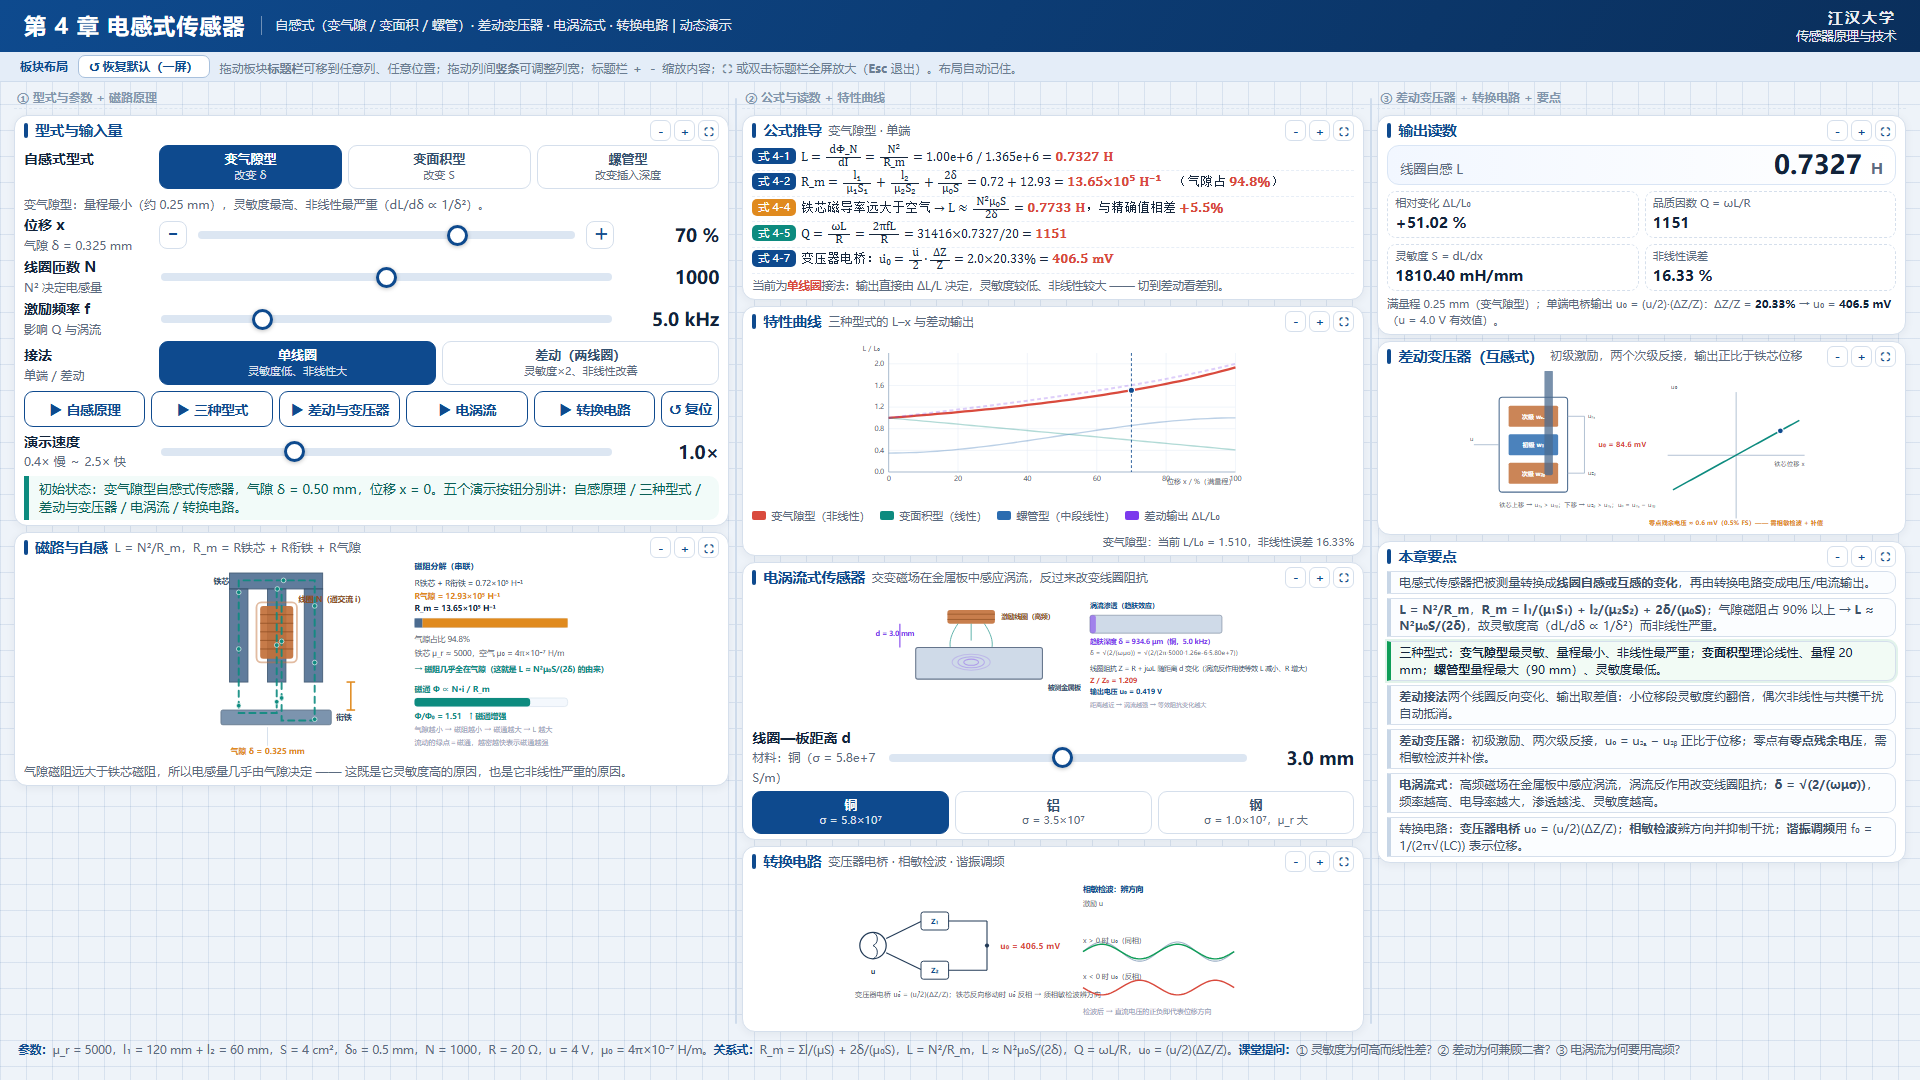
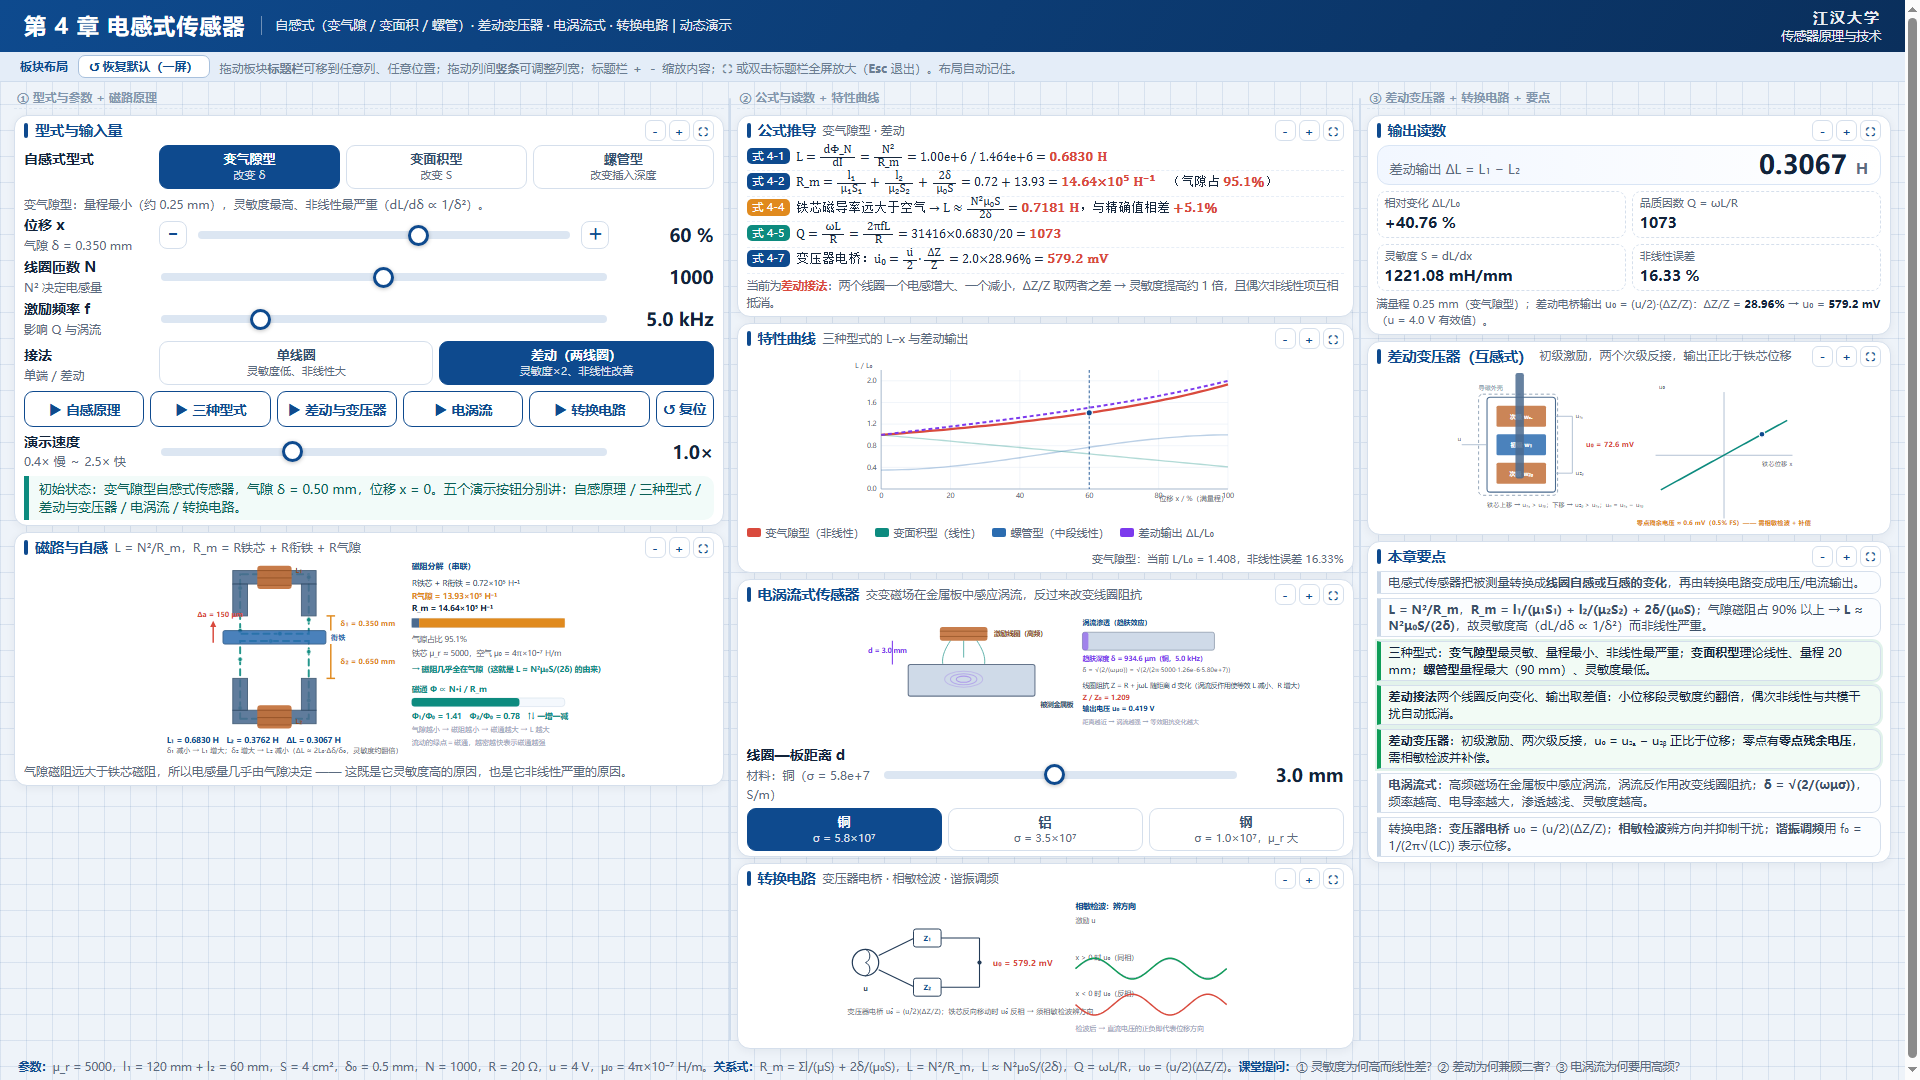
修正差动式结构：按教材图4-8与差动形式幻灯片重画（上下双磁芯+双线圈+中间衔铁，上下气隙反向，两条独立磁通回路，Φ₁/Φ₂ 一增一减）；差动变压器铁芯居中并补导磁外壳

diff --git a/传感器原理及检测技术/第4章-电感式传感器-动态演示.html b/传感器原理及检测技术/第4章-电感式传感器-动态演示.html
@@ -329,7 +329,50 @@
               stroke-linecap="round" opacity=".9" style="display:none"/>
         <path id="loopSol" d="" fill="none" stroke="var(--flux)" stroke-width="3.2" stroke-dasharray="10 8"
               stroke-linecap="round" opacity=".9" style="display:none"/>
+        <path id="loopD1" d="" fill="none" stroke="var(--flux)" stroke-width="3.2" stroke-dasharray="10 8"
+              stroke-linecap="round" opacity=".9" style="display:none"/>
+        <path id="loopD2" d="" fill="none" stroke="var(--flux)" stroke-width="3.2" stroke-dasharray="10 8"
+              stroke-linecap="round" opacity=".9" style="display:none"/>
         <g id="fluxDots"></g>
+        <!-- 差动式：两个线圈分绕上/下磁芯，衔铁在中间，上下气隙一增一减 -->
+        <g id="stDiff" style="display:none">
+          <!-- 上磁芯（上轭 + 两条腿） -->
+          <rect x="128" y="14" width="136" height="22" fill="var(--iron)" opacity=".88" stroke="#2f4b68" stroke-width="1.5"/>
+          <rect x="128" y="36" width="24" height="52" fill="var(--iron)" opacity=".88" stroke="#2f4b68" stroke-width="1.5"/>
+          <rect x="240" y="36" width="24" height="52" fill="var(--iron)" opacity=".88" stroke="#2f4b68" stroke-width="1.5"/>
+          <!-- 下磁芯 -->
+          <rect x="128" y="242" width="136" height="22" fill="var(--iron)" opacity=".88" stroke="#2f4b68" stroke-width="1.5"/>
+          <rect x="128" y="190" width="24" height="52" fill="var(--iron)" opacity=".88" stroke="#2f4b68" stroke-width="1.5"/>
+          <rect x="240" y="190" width="24" height="52" fill="var(--iron)" opacity=".88" stroke="#2f4b68" stroke-width="1.5"/>
+          <!-- 线圈 L₁（绕上轭）／L₂（绕下轭） -->
+          <g id="coilD1"><rect x="168" y="6" width="56" height="38" rx="5" fill="var(--cu)" opacity=".92"/>
+            <line x1="168" y1="14" x2="224" y2="14" stroke="#8c4d22" stroke-width="1.2"/>
+            <line x1="168" y1="26" x2="224" y2="26" stroke="#8c4d22" stroke-width="1.2"/>
+            <line x1="168" y1="38" x2="224" y2="38" stroke="#8c4d22" stroke-width="1.2"/></g>
+          <g id="coilD2"><rect x="168" y="234" width="56" height="38" rx="5" fill="var(--cu)" opacity=".92"/>
+            <line x1="168" y1="242" x2="224" y2="242" stroke="#8c4d22" stroke-width="1.2"/>
+            <line x1="168" y1="254" x2="224" y2="254" stroke="#8c4d22" stroke-width="1.2"/>
+            <line x1="168" y1="266" x2="224" y2="266" stroke="#8c4d22" stroke-width="1.2"/></g>
+          <text x="230" y="18" font-size="12" font-weight="700" fill="#8c4d22">L₁</text>
+          <text x="230" y="264" font-size="12" font-weight="700" fill="#8c4d22">L₂</text>
+          <!-- 衔铁（中间，随被测位移上下移动） -->
+          <rect id="armDiff" x="112" y="128" width="168" height="22" rx="3" fill="#2b6cb0" opacity=".85" stroke="#1b4a7a" stroke-width="1.5"/>
+          <text id="armDiffTxt" x="288" y="144" font-size="12" font-weight="700" fill="#2b6cb0">衔铁</text>
+          <!-- 上下气隙尺寸 -->
+          <line id="d1Dim" x1="288" y1="88" x2="288" y2="128" stroke="var(--gapm)" stroke-width="2.4"/>
+          <line id="d1Tick" x1="281" y1="88" x2="295" y2="88" stroke="var(--gapm)" stroke-width="2.4"/>
+          <text id="d1Txt" x="304" y="112" font-size="12" font-weight="700" fill="var(--gapm)">δ₁</text>
+          <line id="d2Dim" x1="288" y1="150" x2="288" y2="190" stroke="var(--gapm)" stroke-width="2.4"/>
+          <line id="d2Tick" x1="281" y1="190" x2="295" y2="190" stroke="var(--gapm)" stroke-width="2.4"/>
+          <text id="d2Txt" x="304" y="176" font-size="12" font-weight="700" fill="var(--gapm)">δ₂</text>
+          <!-- 位移 Δa -->
+          <line id="dMove" x1="96" y1="150" x2="96" y2="120" stroke="#d94a3d" stroke-width="2.4"/>
+          <polygon id="dMoveH" points="96,116 91,126 101,126" fill="#d94a3d"/>
+          <text id="dMoveTxt" x="70" y="112" font-size="11.5" font-weight="700" fill="#d94a3d">Δa</text>
+          <!-- 输出 -->
+          <text id="dOutTxt" x="20" y="296" font-size="12.5" font-weight="700" fill="#0e4a8e">ΔL = L₁ − L₂ = 0.0000 H</text>
+          <text id="dOutSub" x="20" y="312" font-size="11.5" fill="#5b6b80">一个气隙减小、另一个增大 → 两线圈电感反向变化</text>
+        </g>
         <!-- 右侧：磁阻分解 + 磁通量 -->
         <g transform="translate(420,12)">
           <text x="0" y="0" font-size="13" font-weight="700" fill="#0e4a8e">磁阻分解（串联）</text>
@@ -494,8 +537,10 @@
           <text x="125" y="125" text-anchor="middle" font-size="11.5" font-weight="700" fill="#fff">初级 w₁</text>
           <rect x="78" y="154" width="94" height="40" rx="3" fill="var(--cu)" opacity=".85"/>
           <text x="125" y="179" text-anchor="middle" font-size="11.5" font-weight="700" fill="#fff">次级 w₂ᵦ</text>
-          <rect id="coreRod" x="146" y="20" width="16" height="200" rx="4" fill="var(--iron)" opacity=".75"/>
-          <text id="coreTxt" x="154" y="14" text-anchor="middle" font-size="12" font-weight="700" fill="#2f4b68">铁芯</text>
+          <rect x="44" y="24" width="150" height="192" rx="8" fill="none" stroke="#8296ad" stroke-width="1.6" stroke-dasharray="6 5"/>
+          <text x="44" y="16" font-size="11.5" fill="#8296ad">导磁外壳</text>
+          <rect id="coreRod" x="114" y="20" width="16" height="200" rx="4" fill="var(--iron)" opacity=".85"/>
+          <text id="coreTxt" x="122" y="14" text-anchor="middle" font-size="11.5" font-weight="700" fill="#2f4b68">铁芯</text>
           <line x1="12" y1="120" x2="60" y2="120" stroke="#9fb2c8" stroke-width="1.5"/>
           <text x="4" y="112" font-size="11.5" fill="#5b6b80">u</text>
           <line x1="190" y1="66" x2="222" y2="66" stroke="#9fb2c8" stroke-width="1.5"/>
@@ -659,7 +704,7 @@
   }
 
   /* ============ 2b. 磁通流动动画 ============ */
-  var FLUX = { L:0, t:0, target:1, els:null, path:null };
+  var FLUX = { L:0, t:0, target:1, els:null, path:null, paths:[] };
   /* 闭合磁通回路：中腿下行 → 穿气隙 → 衔铁 → 外腿 → 上轭 → 回中腿 */
   function gapLoop(yArm){
     var y1 = 196, yA = yArm + 5, yB = yArm + 17;
@@ -685,22 +730,48 @@
     var yArm = parseFloat($('armGap').getAttribute('y')) || 204;
     var yTop = parseFloat($('plunger').getAttribute('y')) || 70;
     var depth = parseFloat($('plunger').getAttribute('height')) || 120;
-    $('loopGap').style.display  = (S.type === 'gap') ? '' : 'none';
-    $('loopArea').style.display = (S.type === 'area') ? '' : 'none';
-    $('loopSol').style.display  = (S.type === 'solenoid') ? '' : 'none';
-    var p = activeLoopEl();
-    var dxA = 120*0.6*(S.x/100);
-    p.setAttribute('d', S.type === 'solenoid' ? solLoop(yTop, depth)
-                    : (S.type === 'area' ? areaLoop(dxA, 207) : gapLoop(yArm)));
-    FLUX.path = p;
-    try { FLUX.L = p.getTotalLength(); } catch (e) { FLUX.L = 0; }
+    var isD = (S.diff === 'differ');
+    $('loopGap').style.display  = (!isD && S.type === 'gap') ? '' : 'none';
+    $('loopArea').style.display = (!isD && S.type === 'area') ? '' : 'none';
+    $('loopSol').style.display  = (!isD && S.type === 'solenoid') ? '' : 'none';
+    $('loopD1').style.display = isD ? '' : 'none';
+    $('loopD2').style.display = isD ? '' : 'none';
+    var paths = [];
+    if (isD){
+      /* 差动：两个线圈各自独立回路，各有一个气隙 */
+      var armTop = parseFloat($('armDiff').getAttribute('y')) || 118, armBot = armTop + 22;
+      $('loopD1').setAttribute('d', 'M140 20 V88 L140 ' + (armTop + 5) + ' L252 ' + (armTop + 5) + ' L252 20 Z');
+      $('loopD2').setAttribute('d', 'M140 256 V190 L140 ' + (armBot - 5) + ' L252 ' + (armBot - 5) + ' L252 256 Z');
+      var dP = diffPair(S.type, S.x/100, S.N), L0 = selfL('gap', 0, S.N).L;
+      paths.push({ el:$('loopD1'), L:0, f:dP.up.L/L0 });
+      paths.push({ el:$('loopD2'), L:0, f:dP.down.L/L0 });
+    } else {
+      var dxA = 120*0.6*(S.x/100);
+      var el = S.type === 'solenoid' ? $('loopSol') : (S.type === 'area' ? $('loopArea') : $('loopGap'));
+      el.setAttribute('d', S.type === 'solenoid' ? solLoop(yTop, depth)
+                      : (S.type === 'area' ? areaLoop(dxA, 207) : gapLoop(yArm)));
+      paths.push({ el:el, L:0, f:fluxRatio() });
+    }
+    paths.forEach(function(o){ try { o.L = o.el.getTotalLength(); } catch (e) { o.L = 0; } });
+    FLUX.paths = paths;
   }
   /* 相对磁通：Φ ∝ N·i/R_m，且 L = N²/R_m ⇒ Φ/Φ₀ = L/L₀ */
+  function dP_dummyFix(L, L0){ return L0 > 0 ? L/L0 : 1; }
   function fluxRatio(){
     var L = selfL(S.type, S.x/100, S.N).L, L0 = selfL(S.type, 0, S.N).L;
     return L0 > 0 ? L/L0 : 1;
   }
   function paintFluxGauge(){
+    if (S.diff === 'differ'){
+      /* 差动：两个线圈各有自己的气隙与磁通，分别显示 */
+      var L0d = selfL('gap', 0, S.N).L, dPd = diffPair(S.type, S.x/100, S.N);
+      var f1 = dP_dummyFix(dPd.up.L, L0d), f2 = dP_dummyFix(dPd.down.L, L0d);
+      FLUX.target = f1;
+      $('fluxBar').setAttribute('width', Math.max(6, Math.min(250, f1/2*250)).toFixed(1));
+      $('fluxTxt').textContent = 'Φ₁/Φ₀ = ' + f1.toFixed(2) + '　Φ₂/Φ₀ = ' + f2.toFixed(2) +
+                                 '　' + (f1 > 1.02 ? '↑↓ 一增一减' : '（相等）');
+      return;
+    }
     var f = fluxRatio();
     FLUX.target = f;
     var w = Math.max(6, Math.min(250, f/2*250));
@@ -714,39 +785,50 @@
     }
     g.innerHTML = html;
     FLUX.els = g.querySelectorAll('circle');
-    /* 先摆好初始位置，避免首帧之前粒子挤在原点 */
     setFluxPath();
-    if (FLUX.path && FLUX.L > 0 && FLUX.path.getPointAtLength){
-      for (i = 0; i < FLUX.els.length; i++){
-        var pt0 = FLUX.path.getPointAtLength(i/FLUX.els.length*FLUX.L);
-        FLUX.els[i].setAttribute('cx', pt0.x.toFixed(1));
-        FLUX.els[i].setAttribute('cy', pt0.y.toFixed(1));
-      }
-    }
-  }
-  function runFlux(){
-    var last = performance.now();
-    (function loop(now){
-      var dt = Math.min(60, now - last); last = now;
-      var f = Math.max(0.15, Math.min(2.2, FLUX.target || 1));
-      var speed = 0.30 + 0.55*f;                       /* 磁通越大，流动越快 */
-      FLUX.t = (FLUX.t + dt*speed/1500) % 1;
-      if (FLUX.path){
-        FLUX.path.setAttribute('stroke-dashoffset', (-FLUX.t*FLUX.L*2).toFixed(1));
-        if (FLUX.els && FLUX.L > 0 && FLUX.path.getPointAtLength){
-          var n = FLUX.els.length, i, pt;
-          for (i = 0; i < n; i++){
-            pt = FLUX.path.getPointAtLength((((FLUX.t*1 + i/n) % 1) + 1) % 1 * FLUX.L);
-            FLUX.els[i].setAttribute('cx', pt.x.toFixed(1));
-            FLUX.els[i].setAttribute('cy', pt.y.toFixed(1));
-            FLUX.els[i].setAttribute('opacity', (0.55 + 0.4*Math.min(1, f/1.4)).toFixed(2));
-          }
+    var nDots = FLUX.els.length;
+    (FLUX.paths || []).forEach(function(o, pi){
+      var per = Math.max(1, Math.floor(nDots/(FLUX.paths.length || 1)));
+      if (o.L > 0 && o.el.getPointAtLength){
+        for (var k = 0; k < per; k++){
+          var idx = pi*per + k;
+          if (idx >= nDots) break;
+          var pt = o.el.getPointAtLength(k/per*o.L);
+          FLUX.els[idx].setAttribute('cx', pt.x.toFixed(1));
+          FLUX.els[idx].setAttribute('cy', pt.y.toFixed(1));
         }
       }
-      /* 线圈激励脉冲：磁通越大越亮 */
-      var p = 0.5 + 0.5*Math.sin(now/420);
-      var c = $('coilPulse');
-      if (c) c.setAttribute('opacity', (0.06 + 0.30*p*Math.min(1.4, f)).toFixed(3));
+    });
+  }
+  function runFlux(){
+    var last = performance.now(), phase = [0, 0];
+    (function loop(now){
+      var dt = Math.min(60, now - last); last = now;
+      var paths = FLUX.paths || [], nDots = FLUX.els ? FLUX.els.length : 0;
+      paths.forEach(function(o, pi){
+        var f = Math.max(0.15, Math.min(2.2, o.f || 1));
+        phase[pi] = (phase[pi] + dt*(0.30 + 0.55*f)/1500) % 1;
+        if (o.L > 0){
+          o.el.setAttribute('stroke-dashoffset', (-phase[pi]*o.L*2).toFixed(1));
+          if (FLUX.els && o.el.getPointAtLength){
+            var per = Math.max(1, Math.floor(nDots/paths.length)), i, idx, pt;
+            for (i = 0; i < per; i++){
+              idx = pi*per + i;
+              if (idx >= nDots) break;
+              pt = o.el.getPointAtLength((((phase[pi] + i/per) % 1) + 1) % 1 * o.L);
+              FLUX.els[idx].setAttribute('cx', pt.x.toFixed(1));
+              FLUX.els[idx].setAttribute('cy', pt.y.toFixed(1));
+              FLUX.els[idx].setAttribute('opacity', (0.5 + 0.45*Math.min(1, f/1.4)).toFixed(2));
+            }
+          }
+        }
+      });
+      /* 线圈激励脉冲（单端结构用；差动时两个线圈各自强弱不同由粒子速度体现） */
+      var c1 = $('coilPulse');
+      if (c1){
+        var f0 = paths.length ? Math.max(0.15, Math.min(1.4, paths[0].f || 1)) : 1;
+        c1.setAttribute('opacity', (0.06 + 0.30*(0.5 + 0.5*Math.sin(now/420))*f0).toFixed(3));
+      }
       requestAnimationFrame(loop);
     })(performance.now());
   }
@@ -787,10 +869,32 @@
     $('freqOut').textContent = S.f.toFixed(1) + ' kHz';
 
     /* --- 结构图切换 --- */
-    $('stGap').style.display = (S.type === 'gap') ? '' : 'none';
-    $('stArea').style.display = (S.type === 'area') ? '' : 'none';
-    $('stSol').style.display = (S.type === 'solenoid') ? '' : 'none';
-    if (S.type === 'gap'){
+    var isD = (S.diff === 'differ');
+    $('stGap').style.display = (!isD && S.type === 'gap') ? '' : 'none';
+    $('stArea').style.display = (!isD && S.type === 'area') ? '' : 'none';
+    $('stSol').style.display = (!isD && S.type === 'solenoid') ? '' : 'none';
+    $('stDiff').style.display = isD ? '' : 'none';
+    if (isD){
+      /* 差动式：衔铁上移 → δ₁ 减小、δ₂ 增大（视觉 20 ~ 40 px，围绕中位 30） */
+      var gx = S.x/100, dP = diffPair(S.type, gx, S.N);
+      var gap1 = 30 - 10*gx, gap2 = 50 + 10*gx;      /* 视觉：δ₁ 由 30→20，δ₂ 由 50→60 */
+      var armTop = 88 + gap1, armBot = armTop + 22;
+      $('armDiff').setAttribute('y', armTop.toFixed(1));
+      $('armDiffTxt').setAttribute('y', (armTop + 15).toFixed(1));
+      $('d1Dim').setAttribute('y2', armTop.toFixed(1));
+      $('d2Dim').setAttribute('y1', armBot.toFixed(1));
+      $('d1Txt').setAttribute('y', (88 + gap1/2 + 4).toFixed(1));
+      $('d1Txt').textContent = 'δ₁ = ' + ((S.type === 'gap') ? ((CFG.d0 - gx*(CFG.d0-CFG.dMin))*1000).toFixed(3) : (CFG.d0*1000).toFixed(3)) + ' mm';
+      $('d2Txt').setAttribute('y', (armBot + gap2/2 + 4).toFixed(1));
+      $('d2Txt').textContent = 'δ₂ = ' + ((S.type === 'gap') ? ((CFG.d0 + gx*(CFG.d0-CFG.dMin))*1000).toFixed(3) : (CFG.d0*1000).toFixed(3)) + ' mm';
+      $('dMove').setAttribute('y1', (armTop + 20).toFixed(1)); $('dMove').setAttribute('y2', (armTop - 12).toFixed(1));
+      $('dMoveH').setAttribute('points', '96,' + (armTop - 16).toFixed(1) + ' 91,' + (armTop - 6).toFixed(1) + ' 101,' + (armTop - 6).toFixed(1));
+      $('dMoveTxt').setAttribute('y', (armTop - 22).toFixed(1));
+      $('dMoveTxt').textContent = 'Δa = ' + (S.x*2.5).toFixed(0) + ' μm';
+      $('dOutTxt').textContent = 'L₁ = ' + dP.up.L.toFixed(4) + ' H　L₂ = ' + dP.down.L.toFixed(4) +
+                                 ' H　ΔL = ' + (dP.up.L - dP.down.L).toFixed(4) + ' H';
+      $('dOutSub').textContent = 'δ₁ 减小 → L₁ 增大；δ₂ 增大 → L₂ 减小（ΔL ≈ 2L₀·Δδ/δ₀，灵敏度约翻倍）';
+    } else if (S.type === 'gap'){
       /* 视觉气隙：8 ~ 66 px（放大约 6 倍，便于观察） */
       var gapPx = 8 + 58*(r.delta/CFG.d0);
       var yArm = 196 + gapPx, yArmB = yArm + 24;
@@ -1235,7 +1339,7 @@
     say('① 单线圈在 x = 70% 处，ΔL/L 已经偏离直线很多（非线性误差 ' + nonlinearity('gap').toFixed(1) +
         '%）。原因是 L ≈ N²μ₀S/(2δ) 里 δ 在<b>分母</b>上。');
     if (!await sleep(2600, tok)) return;
-    say('② <b>改成差动</b>：两个线圈一个气隙减小、一个增大，桥臂输出取<b>两者之差</b> (Z₁−Z₂)/(Z₁+Z₂)（紫色虚线）。在小位移段灵敏度约为单端的 <b>2 倍</b>，而且分母中的偶次项相消 → 非线性从 ' +
+    say('② <b>改成差动</b>：看结构图变了 —— 上、下两个磁芯各绕一个线圈 L₁、L₂，衔铁夹在中间，上下各有一个气隙。衔铁上移时 <b>δ₁ 减小、δ₂ 增大</b>，于是 L₁ 增大、L₂ 减小，输出取<b>两者之差</b> (Z₁−Z₂)/(Z₁+Z₂)（紫色虚线）。上下两条磁通回路的速度一个变快、一个变慢，正是这个意思。小位移段灵敏度约为单端的 <b>2 倍</b>，且偶次项相消 → 非线性从 ' +
         (function(){ var s0=(selfL('gap',0,1000).L-selfL('gap',0,1000).L), d=0;
            var L0=selfL('gap',0,1000).L; var t0=(selfL('gap',0,1000).L-L0)/(selfL('gap',0,1000).L+L0), t1=(selfL('gap',1,1000).L-L0)/(selfL('gap',1,1000).L+L0);
            for (var i=0;i<=100;i++){ var x=i/100, v=(selfL('gap',x,1000).L-L0)/(selfL('gap',x,1000).L+L0);
